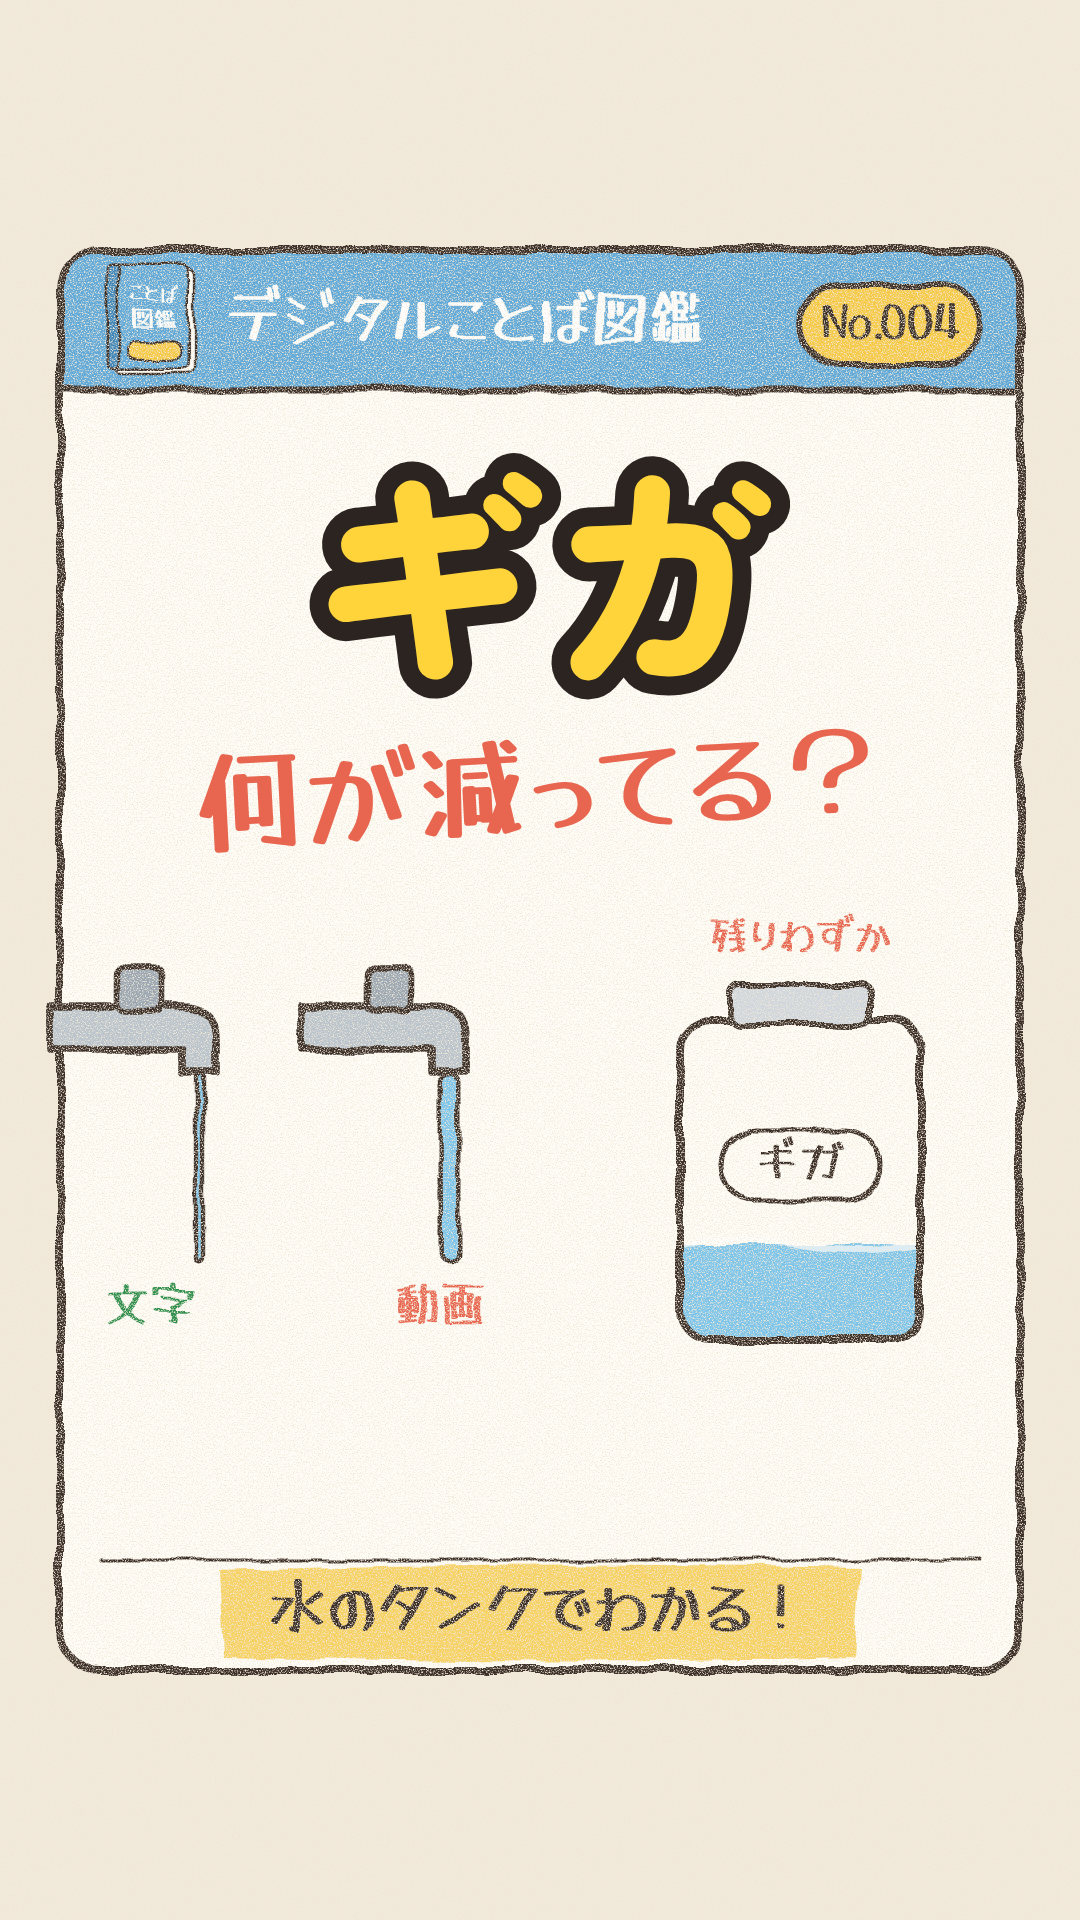
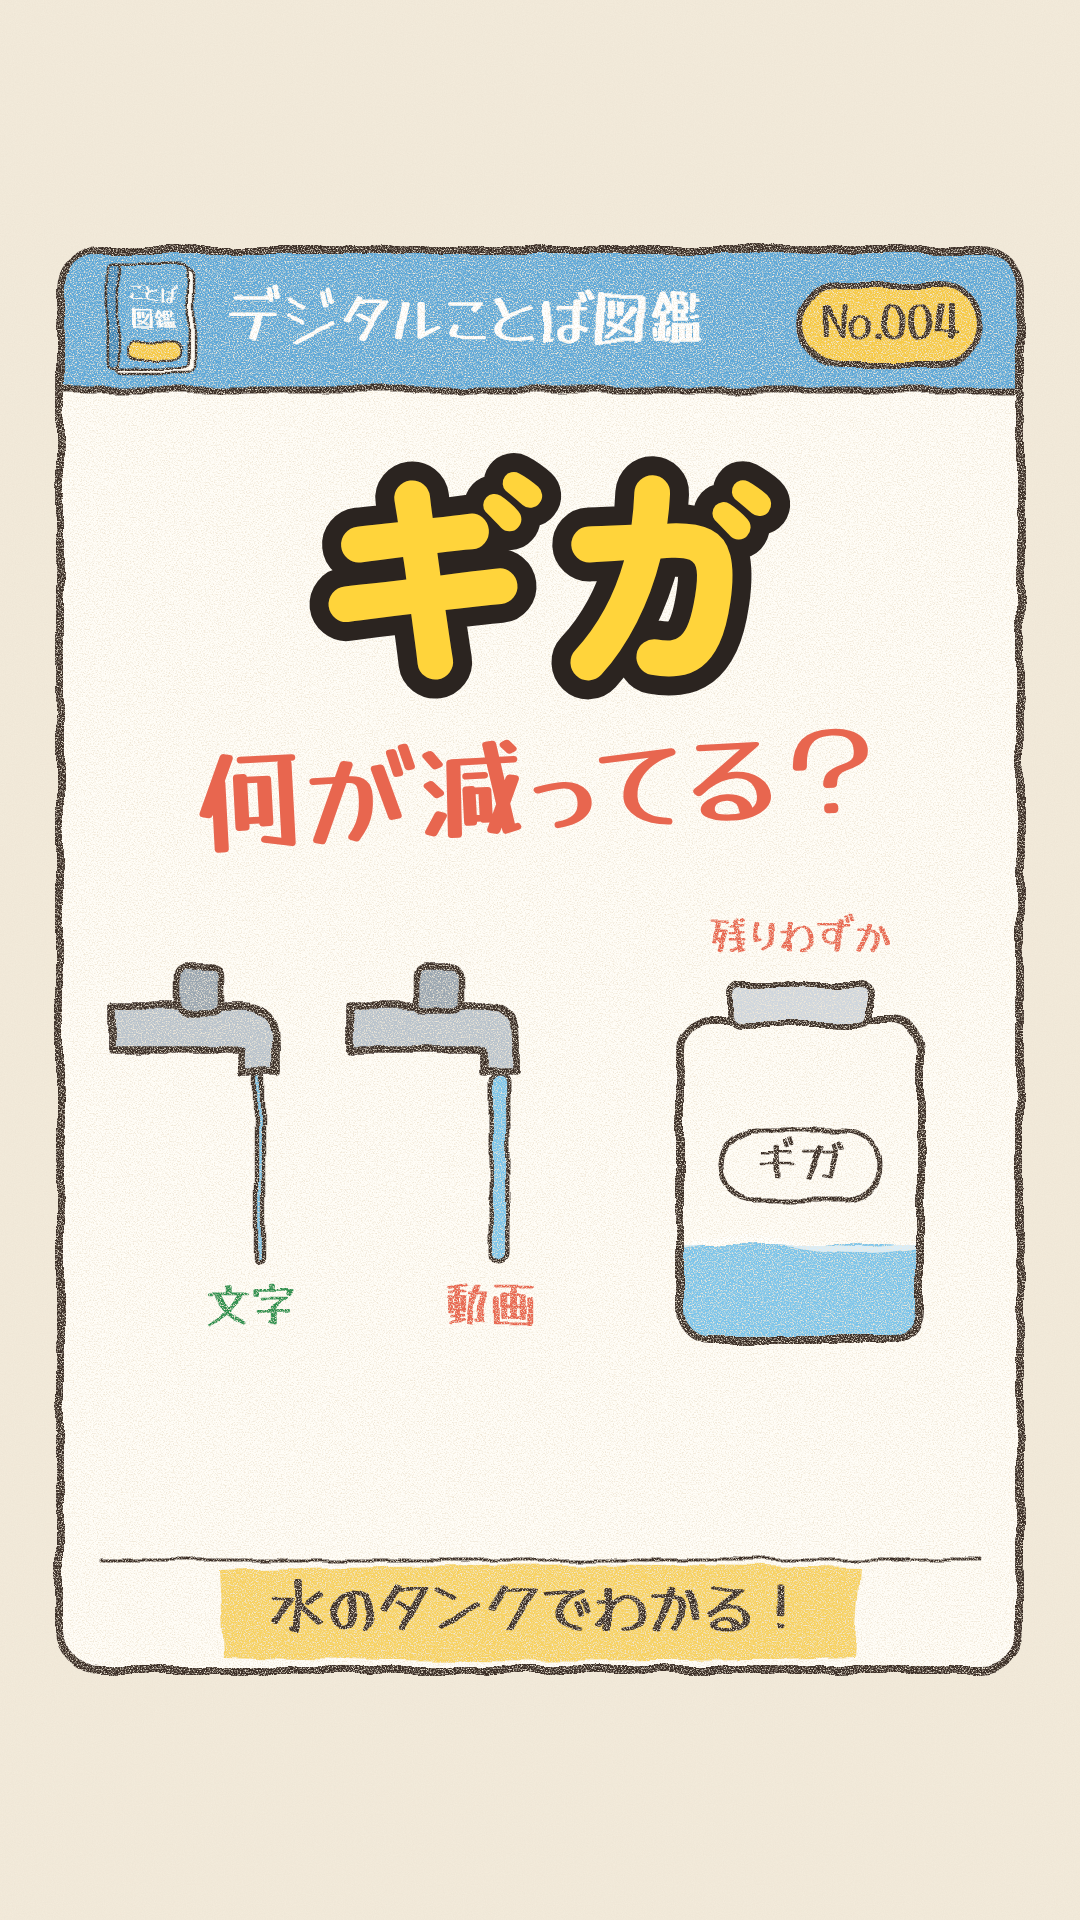
Refresh No.003/004 thumbnails; keep No.004 faucets inside page frame
Claude-Session: https://claude.ai/code/session_01L8xEAAvehPoVRzwPzYE6cr

Changed region(s): [[0.0306, 0.5, 0.4889, 0.6875]]

diff --git a/brand/thumb.html b/brand/thumb.html
@@ -33,7 +33,7 @@ const ART = {
     cacheBox(740, 230, 1.25, 8, '控え') + arrow(600, 150, 400, 150, C.green, 10) +
     g(at(820, -60, 1.3, -8), path('M0 -80 L22 -26 L80 -35 L36 5 L62 62 L0 27 L-62 62 L-36 5 L-80 -35 L-22 -26 Z', C.yellow, 6) + hand(0, 4, '一瞬!', 34)),
   giga: () =>
-    faucet(150, -40, 1.1, 0.4) + faucet(400, -40, 1.1, 1) + hand(150, 220, '文字', 46, '#2f8f4e') + hand(440, 220, '動画', 46, C.red) +
+    faucet(210, -40, 1.1, 0.4) + faucet(450, -40, 1.1, 1) + hand(250, 220, '文字', 46, '#2f8f4e') + hand(490, 220, '動画', 46, C.red) +
     tank(800, 100, 1.0, 0.3) + g(at(800, -150, 1), hand(0, 0, '残りわずか', 40, C.red)),
   wifi: () =>
     house(280, 60, 0.95) + waves(280, -40, 0.8, 0.3, '#2f8fb0') + wifiIcon(280, -60, 0.7, '#2f8fb0') +
